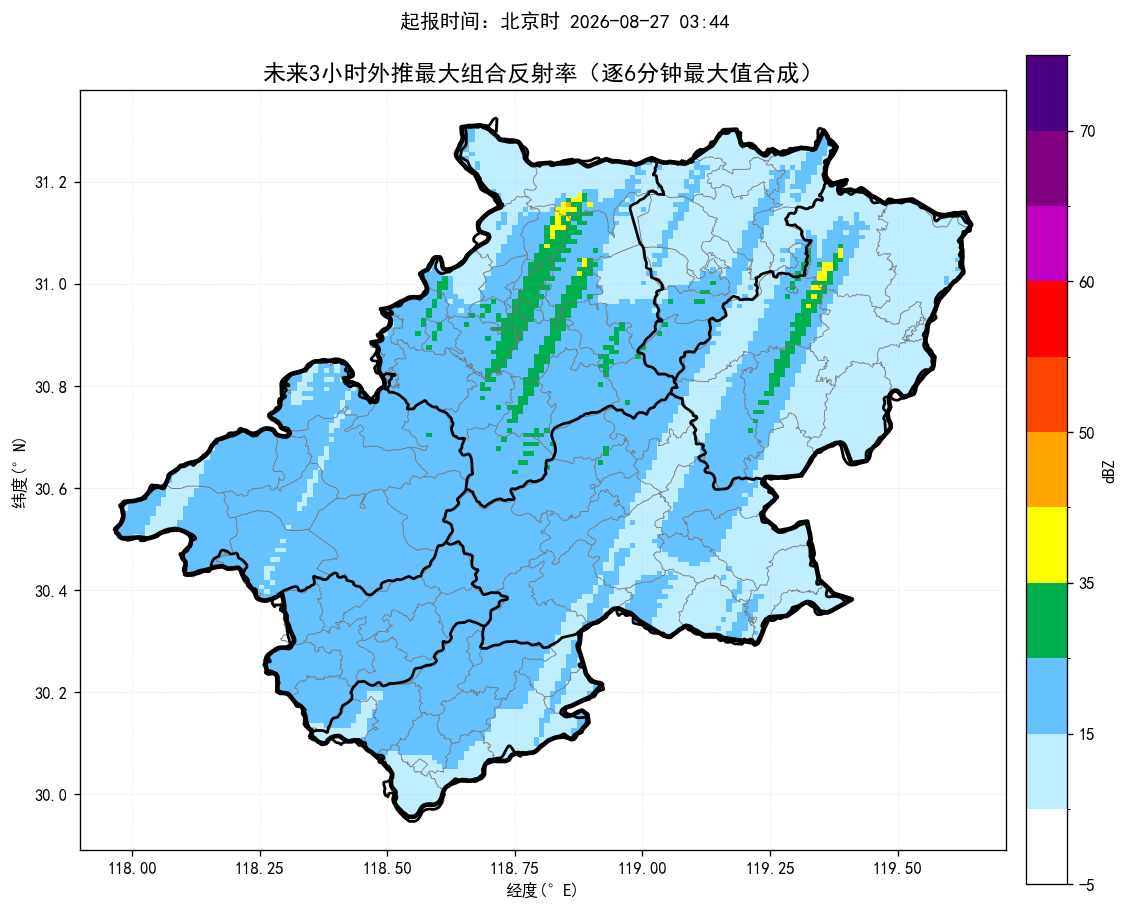
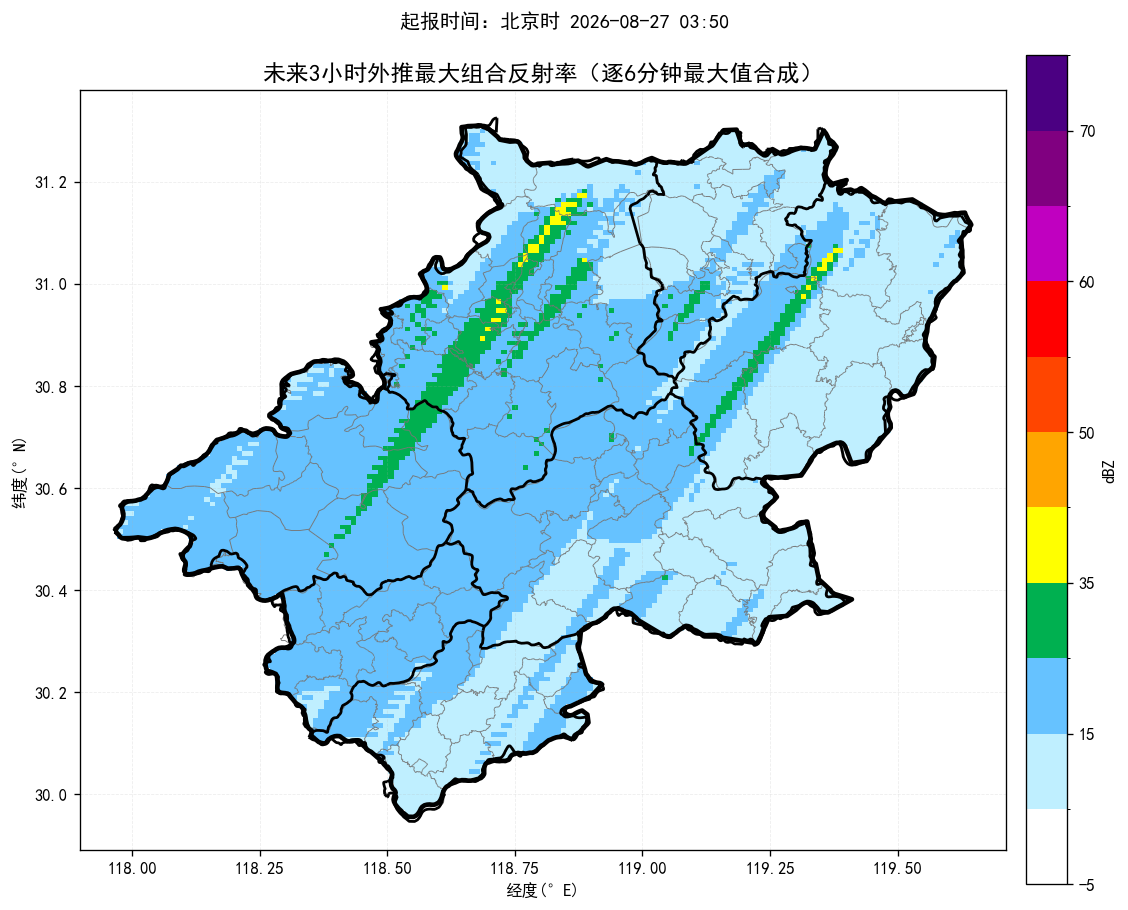
update nowcast products

diff --git a/index.html b/index.html
@@ -14,14 +14,14 @@ img.product{display:block;width:100%;height:auto;margin:10px auto 26px;border:1p
 .footer{font-size:13px;color:#777;text-align:center;margin-top:30px}
 @media(max-width:700px){.sheet{margin:0;padding:18px 15px}.alert-title{font-size:22px}.county-line{font-size:17px}.prob{font-size:18px}}
 </style></head><body><main class="sheet">
-<div class="time">起报时间：北京时 2026-08-27 03:44</div>
+<div class="time">起报时间：北京时 2026-08-27 03:50</div>
 <div class="alert-title">未来一小时降水量超过 20 毫米的乡镇：</div><div class="county-line">无</div>
 <div class="alert-title">未来三小时降水量超过 50 毫米的乡镇：</div><div class="county-line">无</div>
 <div class="alert-title">未来三小时雷暴大风（组合反射率 > 55 dBZ）的乡镇：</div><div class="county-line">无</div>
-<div class="prob">最大降水量概率预估：宣城市范围内未来三小时降水偏小，最大预报约4.2毫米，暂不进行50/80/100毫米概率预估。</div>
-<div class="section-title">未来降水预报图：</div><img class="product auto-refresh-product" data-src="短临降水预报.png" src="短临降水预报.png?v=20260827035030" alt="未来降水预报图">
-<div class="section-title">未来三小时组合反射率图：</div><img class="product auto-refresh-product" data-src="未来3小时组合反射率.png" src="未来3小时组合反射率.png?v=20260827035030" alt="未来三小时组合反射率图">
-<div class="section-title">未来三小时雷暴大风图：</div><img class="product auto-refresh-product" data-src="未来3小时雷暴大风.png" src="未来3小时雷暴大风.png?v=20260827035030" alt="未来三小时雷暴大风图">
+<div class="prob">最大降水量概率预估：宣城市范围内未来三小时降水偏小，最大预报约3.7毫米，暂不进行50/80/100毫米概率预估。</div>
+<div class="section-title">未来降水预报图：</div><img class="product auto-refresh-product" data-src="短临降水预报.png" src="短临降水预报.png?v=20260827035601" alt="未来降水预报图">
+<div class="section-title">未来三小时组合反射率图：</div><img class="product auto-refresh-product" data-src="未来3小时组合反射率.png" src="未来3小时组合反射率.png?v=20260827035601" alt="未来三小时组合反射率图">
+<div class="section-title">未来三小时雷暴大风图：</div><img class="product auto-refresh-product" data-src="未来3小时雷暴大风.png" src="未来3小时雷暴大风.png?v=20260827035601" alt="未来三小时雷暴大风图">
 <div class="footer">三张产品图每 60 秒自动刷新一次；每次请求自动附加新的URL参数以绕过缓存。</div>
 <script>
 (function() {
